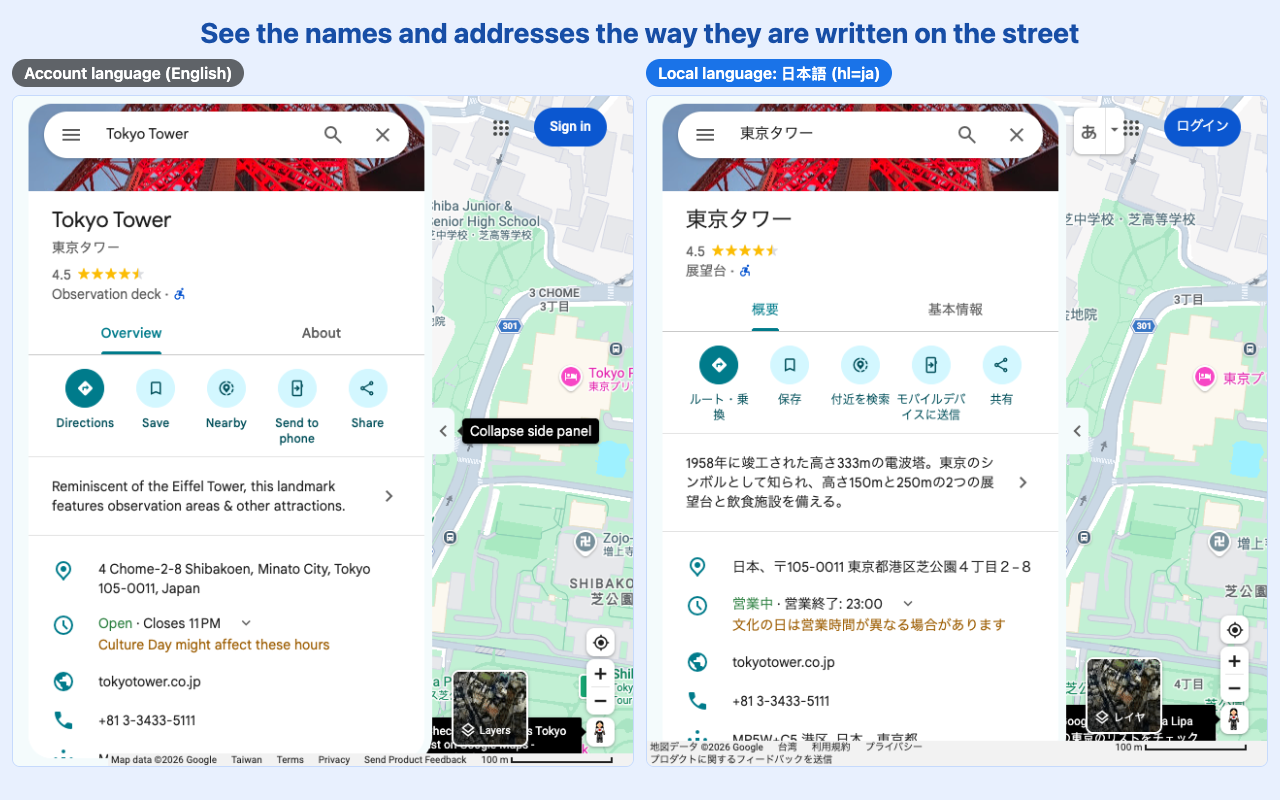
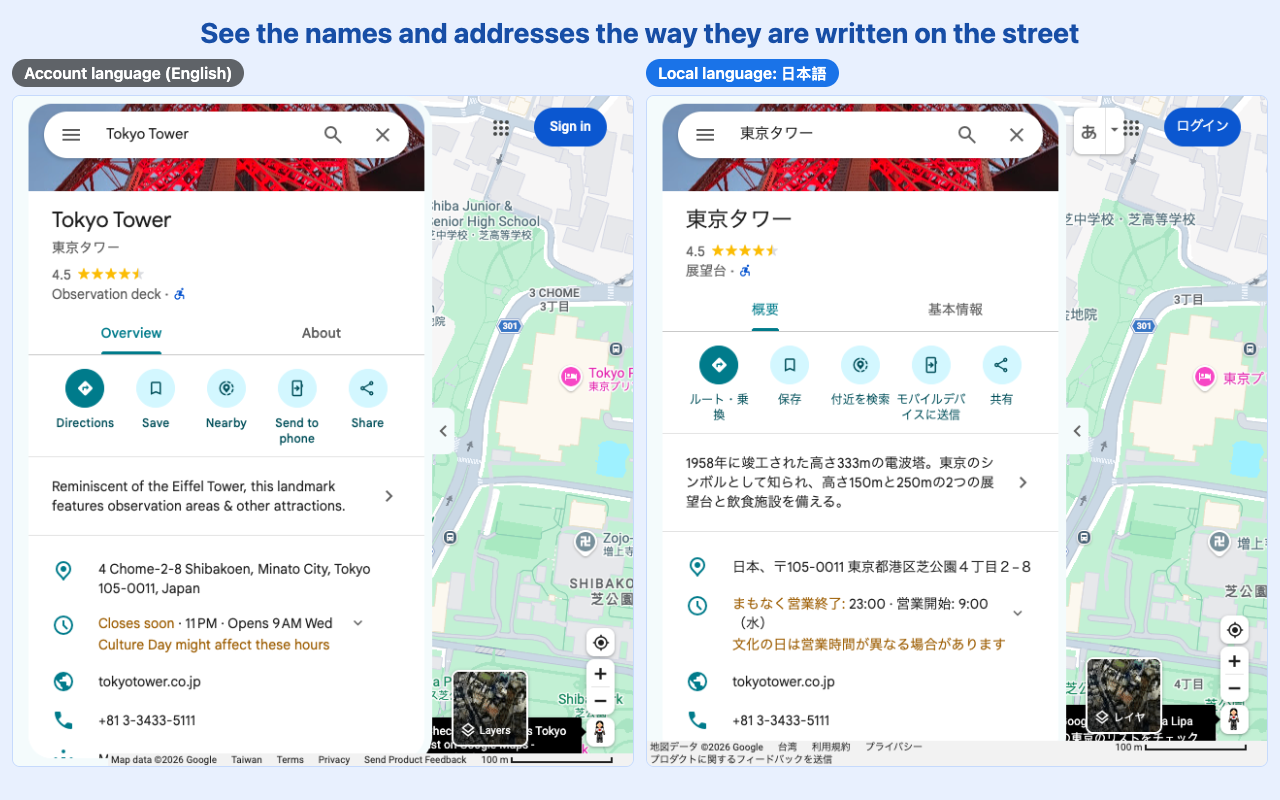
Add a language-menu store screenshot and a note on the install warning
- New screenshot-2: the popup's full language list next to a search,
  so the store shows how picking a language works; the Maps + popup
  shot moves to screenshot-3. The before/after label drops "(hl=ja)".
- README gets an Install section with the store link, and README and
  the store description explain Chrome's "Proceed with caution" notice
  for new developers.

Claude-Session: https://claude.ai/code/session_01GVSwpzeqUKCuWupZqLmDV9

diff --git a/README.md b/README.md
@@ -14,7 +14,16 @@ When you are signed in, Google Maps always uses your Google Account language. Ab
 
 You don't want to change your whole Google Account language for one trip. This extension adds `hl=<language>` to every Google Maps page load, which Google Maps honors over the account setting. Pick a language once and leave it on for the trip, then switch it **Off** when you're home.
 
+## Install
+
+Get it from the [Chrome Web Store](https://chromewebstore.google.com/detail/gmagdmlgaohbookancbaiegljbleemif).
+
+If you use Chrome's Enhanced Safe Browsing, Chrome may say **"Proceed with caution: This extension is not trusted by Enhanced Safe Browsing."** That is Google's standard notice for extensions from developers who are new to the store, not a sign that anything was found wrong; it goes away on its own after a few months. The full source code is in this repository. Click **Continue to install** to go ahead.
+
 ## Use
+
+![The language menu: the full list, and a search for "ch"](store/images/screenshot-2.png)
+
 
 1. Click the toolbar icon.
 2. Search for and click a language (all 74 languages the Google Maps website supports, shown by native name). For a language that isn't listed, type its code (e.g. `yue`) and click the **Use code "yue"** row.

diff --git a/store/listing.md b/store/listing.md
@@ -36,11 +36,14 @@ Features
 How it works
 Google Maps accepts a language parameter in the address (hl=ja). The extension adds that parameter to Google Maps page loads with Chrome's declarativeNetRequest API. It never reads the content of pages.
 
+About the "Proceed with caution" notice
+If you use Chrome's Enhanced Safe Browsing, Chrome may show "This extension is not trusted by Enhanced Safe Browsing" before installing. That is Google's standard notice for extensions from developers who are new to the Chrome Web Store, not a sign that anything was found wrong, and it goes away on its own after a few months. The full source code is public on GitHub.
+
 Source code: https://github.com/ngoohebi/OverrideGoogleMapsAccountLanguage
 
 ## Images
 - Icon: extension/icons/icon128.png
-- Screenshots (1280×800): store/images/screenshot-1.png, store/images/screenshot-2.png
+- Screenshots (1280×800), in this order: store/images/screenshot-1.png (before/after), store/images/screenshot-2.png (language menu), store/images/screenshot-3.png (Maps + popup)
 - Small promo tile (440×280): store/images/promo-small.png
 
 ## Privacy tab
